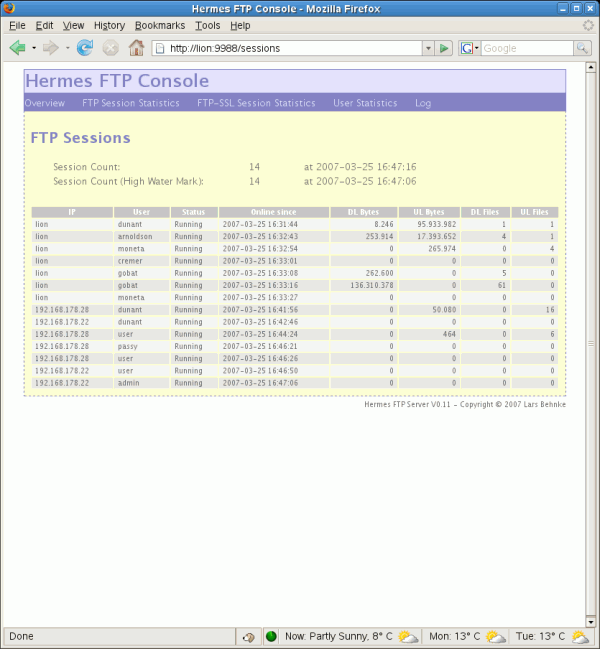
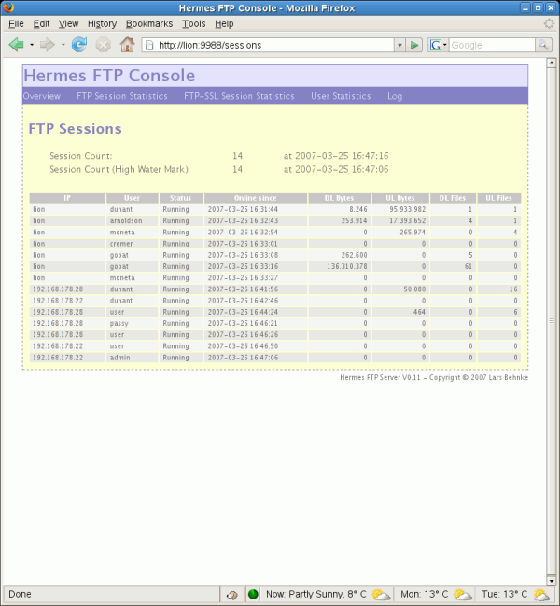
Site layout changed
git-svn-id: https://hermesftp.svn.sourceforge.net/svnroot/hermesftp/hermesftp-server/trunk@57 8487283d-3013-0410-a2f1-82f92352e7d1

diff --git a/src/site/resources/css/site.css b/src/site/resources/css/site.css
@@ -1,0 +1,287 @@
+.clear,br  {
+	display: none;
+}
+
+
+body {
+	background-color: white;
+	background-image: url('body-bg.png');
+	background-repeat: repeat-x;
+	background-position: bottom;
+	background-attachment: fixed;
+	color: #6F6F6F;
+	font-family: 'Lucida Sans', 'Helvetica', 'Sans-serif', 'sans';
+	font-size: 9pt;
+	line-height: 1.8em;
+	height: 99%;
+	padding: 0;
+	margin: 0;
+}
+
+div {
+	position: relative;
+}
+
+#container {
+	background-color: white;
+	/*background-image: url('container-bg.png');*/
+	background-repeat: repeat-y;
+	width: 755px;
+	padding-top: 10px;
+	margin-left: auto;
+	margin-right: auto;
+	margin-bottom: auto;
+	left: auto;
+	right: auto;
+	height: 100%;
+	padding-left: 1px;
+	padding-right: 1px;
+}
+
+#banner {
+	height: 100px;
+	background-color: white;
+	background-image: url('banner-bg.png');
+	background-repeat: repeat-x;
+	background-position: top left;
+	background-attachment: scroll;
+
+	padding-left: 1px;
+	padding-right: 1px;
+}
+
+#breadcrumbs {
+	padding-left: 25px;
+	color: #c3c3c3;
+	background-color: none;
+	margin-top: -25px;
+	font-family: 'Courier New', 'Courier', 'Monospace';
+	font-size: 9pt;
+	border-bottom: 0px solid #C3C3C3;
+	
+}
+
+div .xright {
+	display: none;
+}
+
+
+
+
+#leftColumn {
+	float: left;
+	width: 180px;
+}
+
+#navcolumn {
+	padding-left: 25px;
+	font-weight: 600;
+}
+
+#navcolumn ul {
+	margin: 0;
+	padding: 0;
+}
+
+#navcolumn li {white
+	list-style-type: none;
+	margin-left: 0;
+	padding-left: 0;
+}
+
+#navcolumn li ul {
+	margin-left: 1.5em;
+}
+
+#navcolumn a {
+	text-decoration: none;
+	color: #A7A7A7;
+}
+
+#navcolumn a:hover {
+	color: #808080;
+	text-decoration: underline;
+}
+
+#navcolumn a:active {
+	color: #808080;
+	text-decoration: none;
+}
+
+#navcolumn div {
+	line-height: 1.5em;
+	margin-bottom: 2em;
+}
+
+#navcolumn h5 {
+	font-size: 1.2em;
+	margin-bottom: 0;
+	margin-top: 20px;
+	padding-bottom: 0;
+        margin-right: 30px;
+	border-bottom: 1px dotted #8080c0;
+}
+
+#bodyColumn {
+	float: right;
+	width: 535px;
+	padding-top: 2em;
+	padding-right: 25px;
+	text-align: left;
+}
+
+#footer {
+	clear: both;white
+	background-color: white;
+	background-image: url('footer-bg.png');
+	background-repeat: no-repeat;
+	background-position: top left;
+	background-attachment: scroll;
+	height: 85px;
+}
+
+div#footer div.xright {
+	display: block;
+	padding-top: 60px;
+	padding-left: 22px;
+}
+
+h1,h2,h3,h4,h5,h6,h7,h8 {
+	color: #8080c0;
+}
+
+h2 {
+	font-size: 1.6em;
+}
+
+h3 {
+	font-size: 1.3em;
+}
+
+h5 {
+	font-size: 1em;
+}
+
+a {
+	color: #6F6F6F;
+	text-decoration: underline;
+}
+
+dt {
+	color: #E9601A;
+	font-weight : bold;
+}
+
+dt a {
+	text-decoration: none;
+	color: #E9601A;
+}
+dd {
+	margin-left : 0;
+	padding-left : 0;
+}
+
+img {
+	border: none;
+}
+
+div .source,.blockquote {
+	border: 1px solid #bbb;
+	background: #f0f0f0;
+	padding-left: 1em;
+	padding-right: 1em;
+	line-height: 1.4em;
+	font-family: 'Courier New', 'Courier', 'Monospace';
+	font-size: 1em;
+}
+
+.blockquote {
+	line-height: 1.4em;
+	font-family: 'Courier New', 'Courier', 'Monospace';
+	font-size: 1em;
+
+}
+
+p.quoteAttribution {
+	padding-left: 16px;
+	font-style: italic;
+	margin-bottom: 16px;
+}
+
+div.dottedbox {
+	border: 1px dotted #bbb;
+	background: #F5F5F5;
+	padding-left: 16px;
+	padding-right: 8px;
+	font-family: 'Lucida Sans', 'Helvetica', 'Sans serif', 'sans';
+	line-height: 1.4em;
+}
+
+blockquote code {
+	font-style: normal;
+}
+
+pre {
+	font-family: 'Courier New', 'Courier', 'Monospace';
+}
+
+th {
+	background: #C3C3C3;
+	color: white;
+	font-weight: bold;
+}
+
+th,td {
+	padding-left: 5px;
+	padding-right: 5px;
+}
+
+tr.b {
+	background: #F5F5F5;
+}
+
+tr.a {
+	background: #E6E6E5;
+}
+
+tr.b {
+	background: #F5F5F5;
+}
+
+tr.none {
+	background: transparent;
+}
+
+a.none {
+	background: transparent;
+	padding-right: 0px;
+}
+
+.logoLink {
+	background: transparent;
+	padding-right: 20px;
+	margin-top: 32px;
+}
+
+a.externalLink,a.externalLink:link,a.externalLink:visited,a.externalLink:active,a.externalLink:hover
+	{
+	background: url(external.png) right center no-repeat;
+	padding-right: 15px;
+}
+
+a.newWindow,a.newWindow:link,a.newWindow:visited,a.newWindow:active,a.newWindow:hover
+	{
+	background: url(newwindow.png) right center no-repeat;
+	padding-right: 18px;
+}
+
+a.pdf,a.pdf:link,a.pdf:visited,a.pdf:active,a.pdf:hover {
+	background: url(../images/pdf.gif) right center no-repeat;
+	padding-right: 18px;
+}
+
+a.word,a.word:link,a.word:visited,a.word:active,a.word:hover {
+	background: url(../images/word.gif) right center no-repeat;
+	padding-right: 18px;
+}
+
